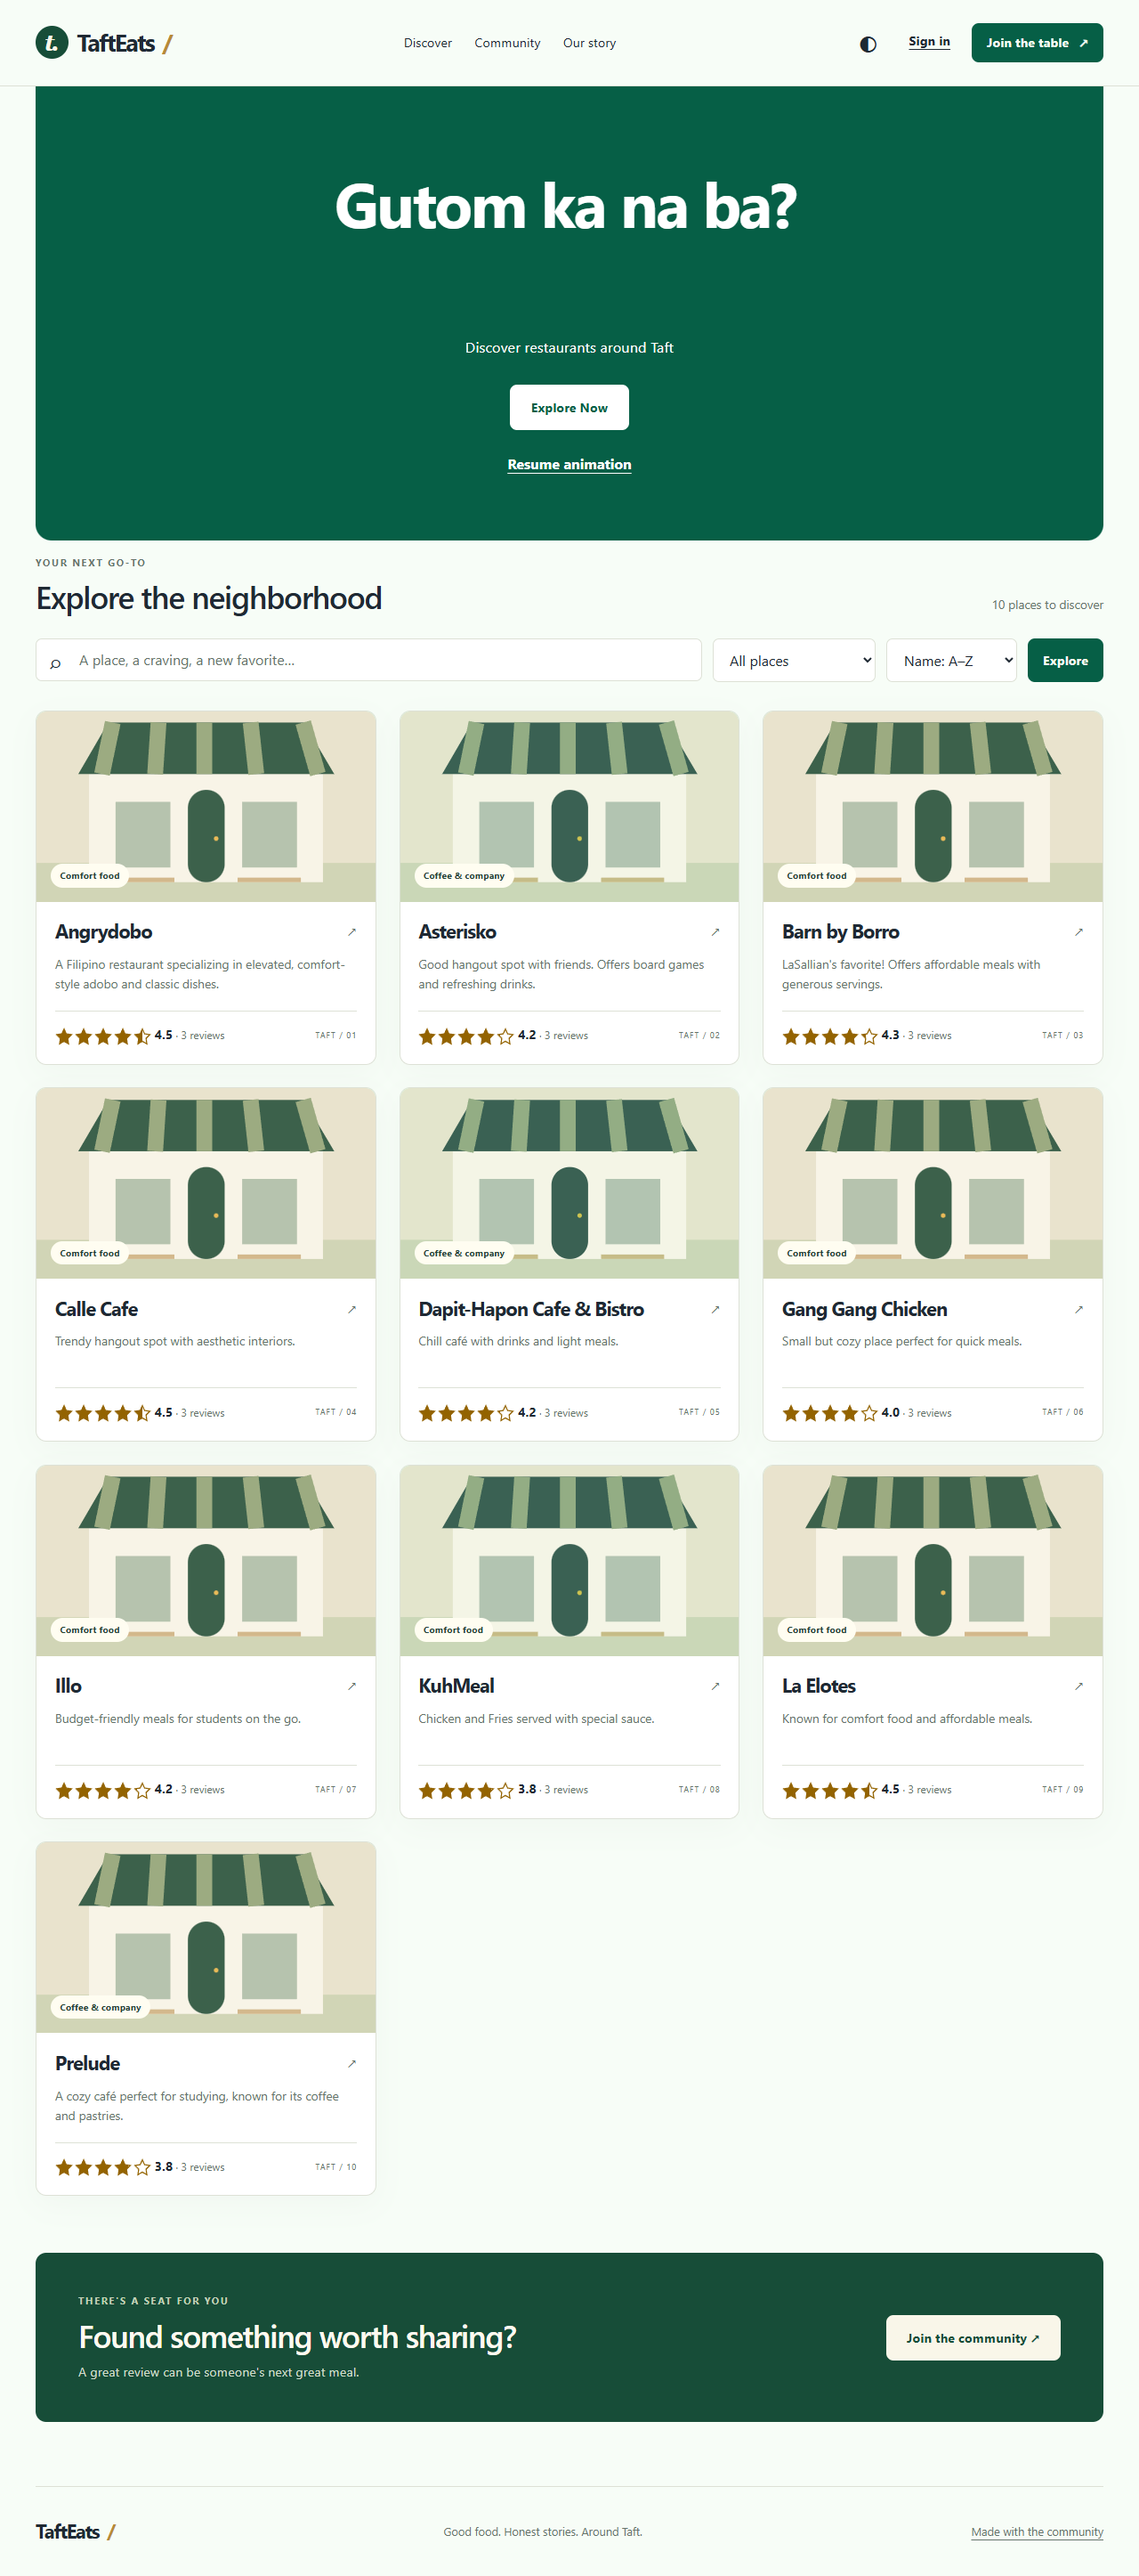
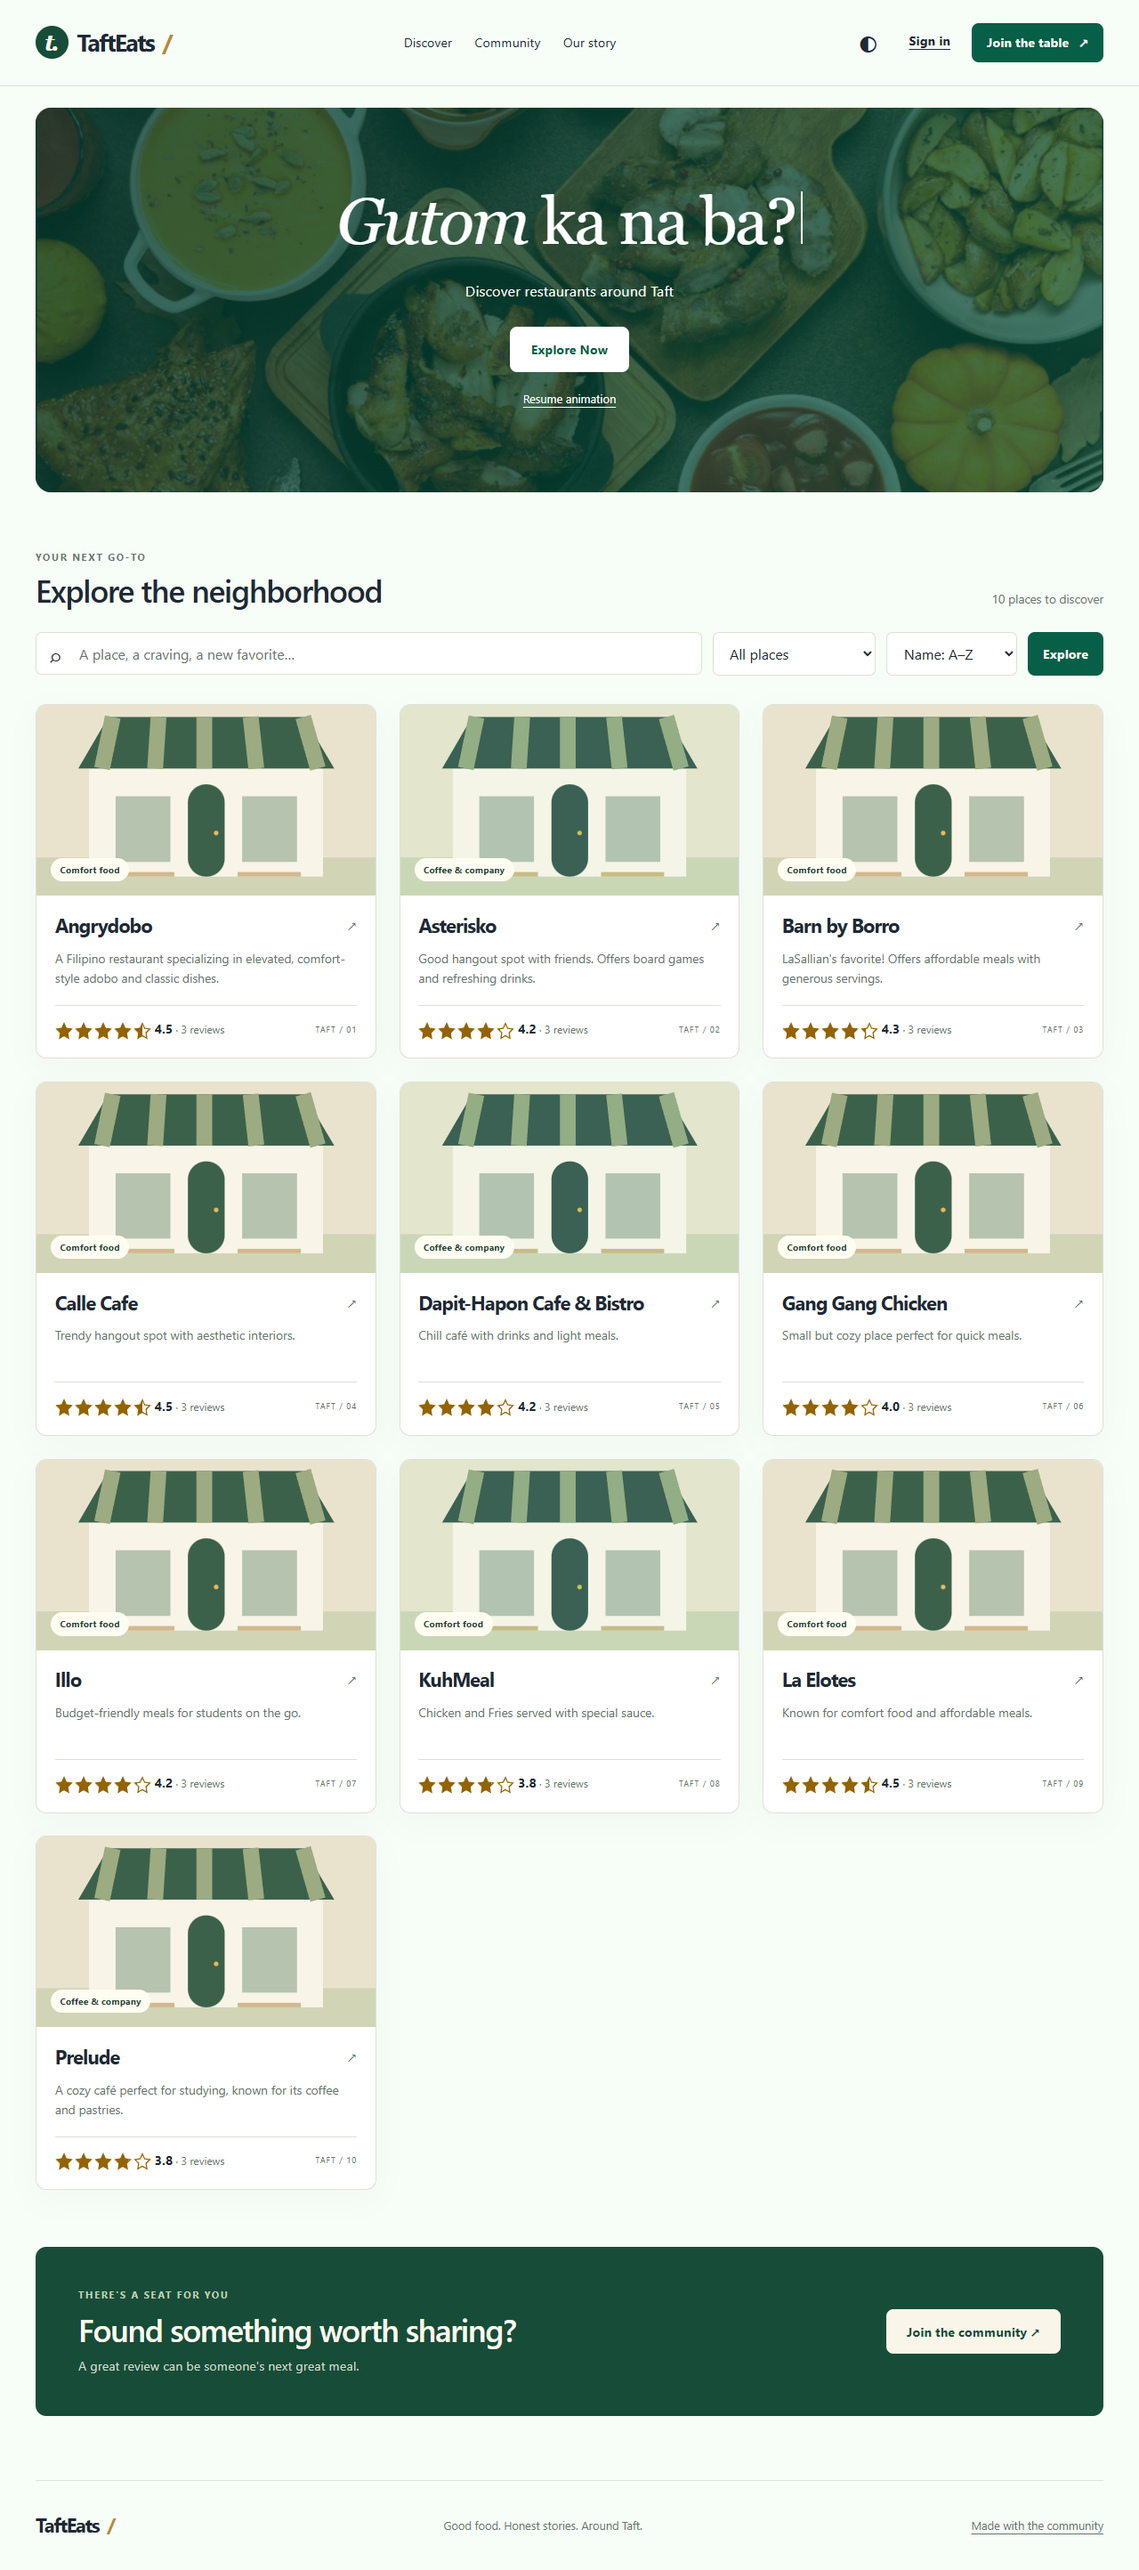
feat: restore photographed serif hero and consistent multilingual spacing

diff --git a/src/public/css/style.css b/src/public/css/style.css
@@ -248,77 +248,91 @@ small {
   line-height: 1.7;
   color: var(--muted);
 }
-.status-dot {
-  display: inline-block;
-  height: 7px;
-  width: 7px;
-  background: #3d7955;
-  border-radius: 50%;
-  margin-right: 0.55rem;
-}
 .hero {
-  padding-block: 4.6rem 4rem;
+  position: relative;
+  isolation: isolate;
+  overflow: hidden;
   display: grid;
-  grid-template-columns: 1.13fr 1fr;
-  align-items: center;
-  gap: 3rem;
+  place-items: center;
+  min-height: clamp(24rem, 60svh, 36rem);
+  margin-block: 1.5rem 3rem;
+  padding: clamp(3rem, 6vw, 5rem) clamp(1rem, 4vw, 3rem);
+  border-radius: 18px;
+  background: #065f46;
+  color: #fff;
+  text-align: center;
+}
+.hero-background {
+  position: absolute;
+  inset: 0;
+  z-index: -2;
+  width: 100%;
+  height: 100%;
+  object-fit: cover;
+}
+.hero::before {
+  content: '';
+  position: absolute;
+  inset: 0;
+  z-index: -1;
+  background: linear-gradient(110deg, #033c30cc, #06513dba);
+}
+.hero-copy {
+  display: grid;
+  justify-items: center;
+  gap: 1.25rem;
+  width: 100%;
 }
 .hero h1 {
-  margin: 1.1rem 0 1.6rem;
+  margin: 0;
+  height: 1.2em;
+  font-family: Georgia, 'Times New Roman', serif;
+  font-size: clamp(1.75rem, 5.8vw, 5.25rem);
+  font-weight: 400;
+  line-height: 1.2;
+  white-space: nowrap;
 }
 .hero-description {
   max-width: 410px;
-  color: var(--muted);
+  margin: 0;
+  color: #fff;
   font-size: 1.03rem;
-  margin-bottom: 1.9rem;
 }
-.hero-note {
-  margin-top: 1.5rem;
+.hero-actions {
+  display: grid;
+  justify-items: center;
+  gap: 0.5rem;
+  margin-top: 0.5rem;
+}
+.hero .button {
+  background: #fff;
+  color: #065f46;
+}
+.hero-animation-toggle {
+  color: #fff;
+  font-weight: 400;
   font-size: 0.8rem;
-  color: var(--muted);
 }
-.tiny-stars {
-  color: #b78a38;
-  padding-right: 0.6rem;
-  letter-spacing: -0.1em;
+.hero-animation-toggle[hidden] {
+  display: none;
 }
-.hero-art {
-  position: relative;
-  border-radius: 16px 16px 100px 16px;
-  background: #edeadb;
-  overflow: hidden;
+.hero :focus-visible {
+  outline-color: #fff;
 }
-.hero-art > img {
-  width: 100%;
-  height: 410px;
-  object-fit: cover;
+.hero-cursor {
+  display: inline-block;
+  height: 0.8em;
+  border-right: 2px solid currentColor;
+  margin-left: 0.08em;
+  animation: hero-blink 0.7s step-end infinite;
 }
-.art-caption {
-  position: absolute;
-  bottom: 1.8rem;
-  left: 1.8rem;
-  background: #fffaf0;
-  color: #203c31;
-  padding: 1.1rem 1.4rem;
-  box-shadow: 4px 5px 0 #a6ae9670;
-  border: 1px solid #dfdccb;
-  transform: rotate(-3deg);
-  border-radius: 2px;
+.animation-paused .hero-cursor {
+  animation: none;
 }
-.art-caption strong {
-  display: block;
-  font:
-    1.25rem Georgia,
-    serif;
-  margin: 0.4rem 0 0.9rem;
-  line-height: 1.15;
-}
-.art-caption .eyebrow {
-  color: #66746b;
-}
-.art-caption > span:last-child {
-  font-size: 0.55rem;
-  letter-spacing: 0.12em;
+@keyframes hero-blink {
+  50% {
+    opacity: 0;
+  }
 }
 .section-heading {
   display: flex;
@@ -961,13 +975,6 @@ fieldset {
     justify-content: center;
     padding-top: 0.5rem;
   }
-  .hero {
-    gap: 2rem;
-    padding-top: 3rem;
-  }
-  .hero-art > img {
-    height: 360px;
-  }
   .restaurant-grid {
     gap: 1rem;
   }
@@ -1001,26 +1008,6 @@ fieldset {
   }
   .profile-link span {
     display: none;
-  }
-  .hero {
-    grid-template-columns: 1fr;
-    padding-block: 2.5rem;
-    gap: 2rem;
-  }
-  .hero h1 {
-    font-size: clamp(2.8rem, 10vw, 4rem);
-  }
-  .hero-art {
-    max-width: 550px;
-    width: 100%;
-  }
-  .hero-art > img {
-    height: 300px;
-  }
-  .art-caption {
-    bottom: 1rem;
-    left: 1rem;
-    padding: 0.8rem 1rem;
   }
   .filter-bar {
     flex-wrap: wrap;
@@ -1130,50 +1117,6 @@ fieldset {
   }
 }
 
-.hero {
-  display: flex;
-  justify-content: center;
-  text-align: center;
-  min-height: 65vh;
-  background: #065f46;
-  color: #fff;
-  border-radius: 0 0 18px 18px;
-}
-.hero-copy {
-  width: 100%;
-}
-.hero h1 {
-  min-height: 2.3em;
-  font-family: 'Segoe UI', system-ui, sans-serif;
-}
-.hero-description {
-  margin-inline: auto;
-  color: #fff;
-}
-.hero .button {
-  background: #fff;
-  color: #065f46;
-}
-.hero-animation-toggle {
-  display: block;
-  margin: 1rem auto 0;
-  color: #fff;
-}
-.hero-animation-toggle[hidden] {
-  display: none;
-}
-.hero-cursor {
-  display: inline-block;
-  height: 0.9em;
-  border-right: 3px solid currentColor;
-  margin-left: 0.1em;
-  animation: hero-blink 0.7s step-end infinite;
-}
-@keyframes hero-blink {
-  50% {
-    opacity: 0;
-  }
-}
 .star-display {
   display: inline-flex;
   gap: 2px;

diff --git a/tests/browser/flows.spec.js b/tests/browser/flows.spec.js
@@ -24,9 +24,18 @@ async function audit(page) {
   });
   expect(violations).toEqual([]);
 }
+async function heroDescriptionOffset(page) {
+  return page.locator('.hero-description').evaluate((description) => {
+    return (
+      description.getBoundingClientRect().top -
+      description.closest('.hero').getBoundingClientRect().top
+    );
+  });
+}
 test('discovery, filtering, keyboard navigation, themes, and responsive layouts', async ({
   page,
 }) => {
+  test.setTimeout(60000);
   const errors = [];
   page.on('pageerror', (error) => errors.push(error.message));
   page.on('console', (message) => {
@@ -38,13 +47,20 @@ test('discovery, filtering, keyboard navigation, themes, and responsive layouts'
   });
   await page.reload();
   await expect(page.getByRole('heading', { level: 1 })).toHaveAccessibleName('Are you hungry?');
+  await expect(page.locator('.hero-background')).toBeVisible();
+  expect(
+    await page.locator('.hero-background').evaluate((img) => img.complete && img.naturalWidth > 0),
+  ).toBe(true);
   await expect(page.locator('.restaurant-card .star-display')).toHaveCount(10);
   await page.keyboard.press('Tab');
   await expect(page.getByRole('link', { name: 'Skip to content' })).toBeFocused();
   await page.keyboard.press('Enter');
   await expect(page.locator('#main')).toBeFocused();
+  const initialDescription = await heroDescriptionOffset(page);
   await expect(page.locator('#hero-text')).toHaveAttribute('lang', 'fil', { timeout: 7000 });
   await expect(page.locator('#hero-text')).toHaveText('Gutom ka na ba?', { timeout: 3000 });
+  expect(await heroDescriptionOffset(page)).toBe(initialDescription);
+  await expect(page.locator('#hero-text em')).toHaveText('Gutom');
   await page.getByRole('button', { name: 'Pause animation', exact: true }).click();
   await expect(page.getByRole('button', { name: 'Resume animation', exact: true })).toHaveAttribute(
     'aria-pressed',
@@ -64,18 +80,38 @@ test('discovery, filtering, keyboard navigation, themes, and responsive layouts'
   await page.getByRole('button', { name: 'Explore', exact: true }).click();
   await expect(page.getByRole('heading', { name: 'No places match just yet.' })).toBeVisible();
   await page.getByRole('link', { name: 'Clear filters' }).click();
-  for (const width of [375, 768, 1440]) {
+  for (const width of [320, 375, 768, 1440]) {
     await page.setViewportSize({ width, height: 900 });
     expect(
       await page.evaluate(() => document.documentElement.scrollWidth <= window.innerWidth),
     ).toBe(true);
   }
+  await page.setViewportSize({ width: 320, height: 844 });
+  await page.reload();
+  const mobileDescription = await heroDescriptionOffset(page);
+  for (const phrase of [
+    'Are you hungry?',
+    'Gutom ka na ba?',
+    '¿Tienes hambre?',
+    '你饿了吗',
+    'Vous avez faim?',
+    'Hast du Hunger?',
+    'Hai fame?',
+  ]) {
+    await expect(page.locator('#hero-text')).toHaveText(phrase, { timeout: 7000 });
+    expect(await heroDescriptionOffset(page)).toBe(mobileDescription);
+    const heading = await page.locator('.hero h1').boundingBox();
+    const hero = await page.locator('.hero').boundingBox();
+    expect(heading.x).toBeGreaterThanOrEqual(hero.x);
+    expect(heading.x + heading.width).toBeLessThanOrEqual(hero.x + hero.width);
+  }
   await page.setViewportSize({ width: 390, height: 844 });
-  await audit(page);
-  await page.screenshot({ path: path.resolve('docs/mobile-preview.png'), fullPage: true });
   await page.emulateMedia({ reducedMotion: 'reduce' });
   await expect(page.locator('#hero-text')).toHaveText('Are you hungry?');
   await expect(page.locator('.hero-animation-toggle')).toBeHidden();
+  await expect(page.locator('#hero-text em')).toHaveText('hungry?');
+  await audit(page);
+  await page.screenshot({ path: path.resolve('docs/mobile-preview.png'), fullPage: true });
   expect(errors).toEqual([]);
 });
 test('registration, sign-in, profile edit, review CRUD, voting, and owner replies', async ({

diff --git a/src/public/js/app.js b/src/public/js/app.js
@@ -4,13 +4,13 @@
   const heroToggle = document.querySelector('.hero-animation-toggle');
   if (heroText && heroToggle) {
     const phrases = [
-      ['Are you hungry?', 'en'],
-      ['Gutom ka na ba?', 'fil'],
-      ['¿Tienes hambre?', 'es'],
-      ['你饿了吗', 'zh'],
-      ['Vous avez faim?', 'fr'],
-      ['Hast du Hunger?', 'de'],
-      ['Hai fame?', 'it'],
+      ['Are you hungry?', 'en', 'hungry?'],
+      ['Gutom ka na ba?', 'fil', 'Gutom'],
+      ['¿Tienes hambre?', 'es', 'hambre?'],
+      ['你饿了吗', 'zh', '饿'],
+      ['Vous avez faim?', 'fr', 'faim?'],
+      ['Hast du Hunger?', 'de', 'Hunger?'],
+      ['Hai fame?', 'it', 'fame?'],
     ];
     const reducedMotion = matchMedia('(prefers-reduced-motion: reduce)');
     let phrase = 0;
@@ -18,12 +18,21 @@
     let erasing = true;
     let paused = false;
     let timer;
+    function renderPhrase() {
+      const [text, language, emphasis] = phrases[phrase];
+      const visible = text.slice(0, length);
+      const start = text.indexOf(emphasis);
+      const end = start + emphasis.length;
+      const italic = document.createElement('em');
+      italic.textContent = visible.slice(start, end);
+      heroText.replaceChildren(visible.slice(0, start), italic, visible.slice(end));
+      heroText.lang = language;
+    }
     function step() {
       if (paused || reducedMotion.matches) return;
-      const [text, language] = phrases[phrase];
+      const [text] = phrases[phrase];
       length += erasing ? -1 : 1;
-      heroText.textContent = text.slice(0, length);
-      heroText.lang = language;
+      renderPhrase();
       let delay = erasing ? 35 : 65;
       if (length === 0) {
         phrase = (phrase + 1) % phrases.length;
@@ -40,12 +49,12 @@
       heroToggle.hidden = reducedMotion.matches;
       heroToggle.textContent = paused ? 'Resume animation' : 'Pause animation';
       heroToggle.setAttribute('aria-pressed', String(paused));
+      heroText.closest('.hero').classList.toggle('animation-paused', paused);
       if (reducedMotion.matches) {
         phrase = 0;
         length = phrases[0][0].length;
         erasing = true;
-        heroText.textContent = phrases[0][0];
-        heroText.lang = 'en';
+        renderPhrase();
       } else if (!paused) timer = setTimeout(step, 2000);
     }
     heroToggle.addEventListener('click', () => {
